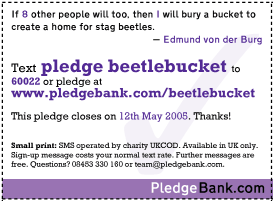
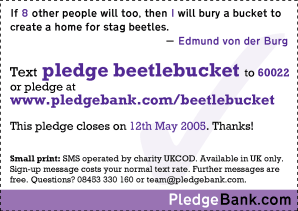
Better flyer picture.

diff --git a/pb/web/offline.php b/pb/web/offline.php
@@ -5,7 +5,7 @@
 // Copyright (c) 2005 UK Citizens Online Democracy. All rights reserved.
 // Email: matthew@mysociety.org. WWW: http://www.mysociety.org
 //
-// $Id: offline.php,v 1.7 2005-06-12 21:03:28 matthew Exp $
+// $Id: offline.php,v 1.8 2005-06-12 21:04:11 matthew Exp $
 
 require_once "../phplib/pb.php";
 require_once '../phplib/fns.php';
@@ -26,7 +26,7 @@ involved even if they never use the internet.</p>
 </div>
 
 <div class="offline">
-<img src="flyer-example3.png" title="Example PledgeBank flyer" width="298" height="211" alt="">
+<img src="flyer-example.png" title="Example PledgeBank flyer" width="298" height="211" alt="">
 <h2>Flyers</h2>
 
 <p>Every pledge created on PledgeBank comes with a set of automatically
